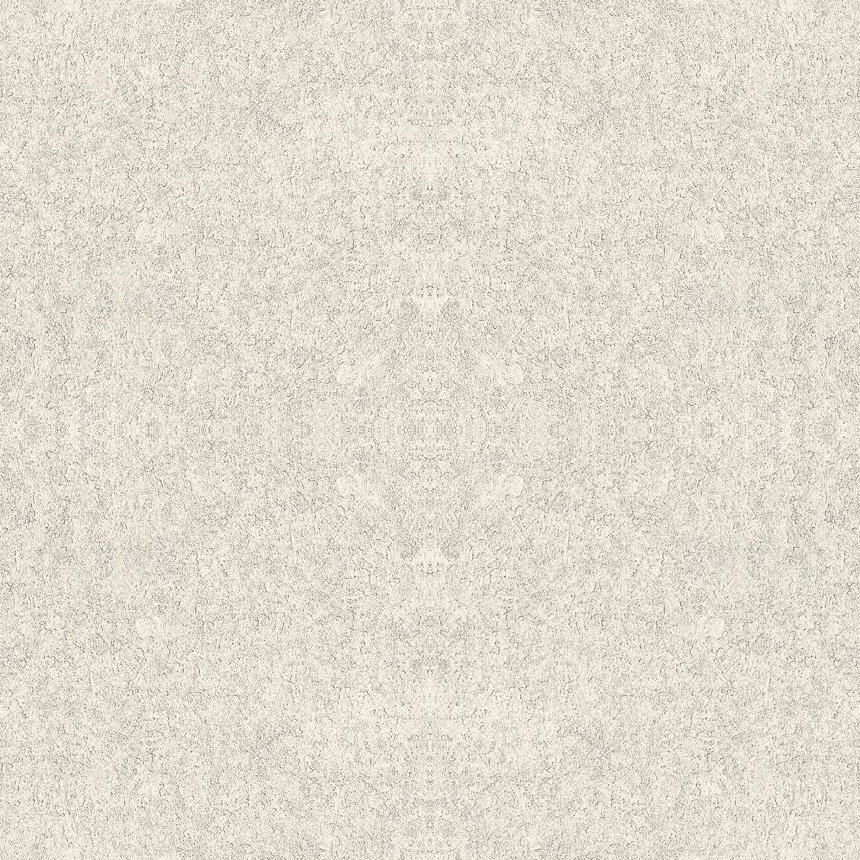
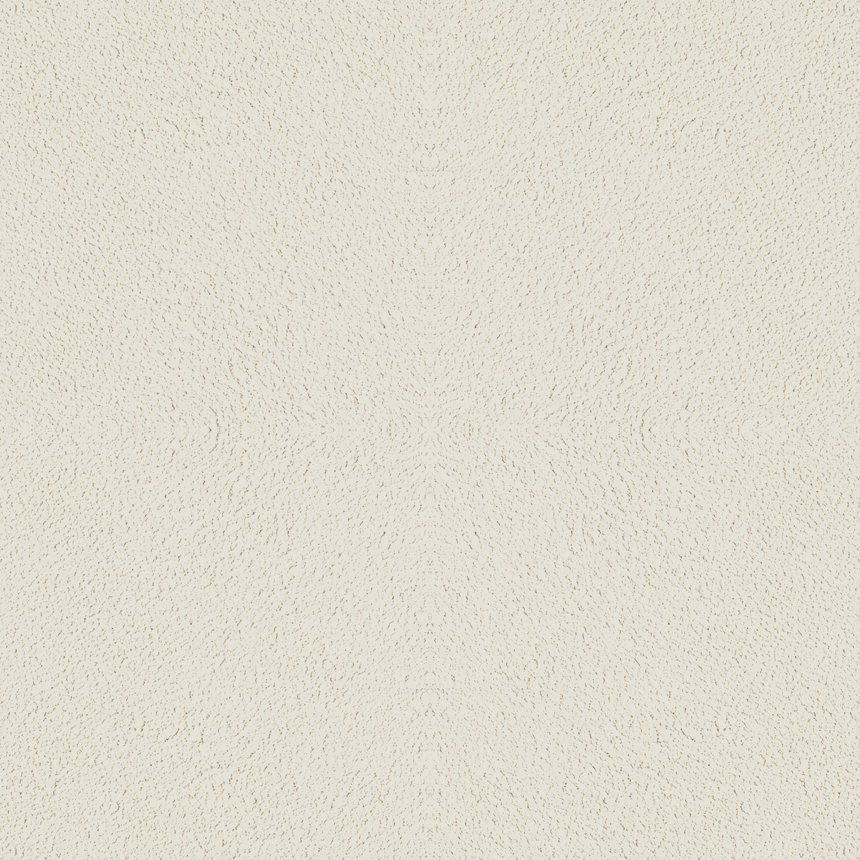
sync: 회벽 베이지 텍스처 크림화이트 입자로 재생성(베이지 톤, 170px) (theboda-platform d15e4ae)

Changed region(s): [[0.0, 0.0, 1.0, 1.0]]

diff --git a/js/views/room-visualizer.js b/js/views/room-visualizer.js
@@ -3,7 +3,7 @@
 import { el } from "../ui.js";
 import { buildCompositePlan, layerToStyle } from "../room-visualizer-helpers.js";
 
-const VISUAL_ASSET_VERSION = "0622-door-color-v2";
+const VISUAL_ASSET_VERSION = "0624-beige-recolor-v1";
 const visualAssetUrl = (url) => {
   if (!url?.startsWith("rooms/living/presets/")
     && !url?.startsWith("rooms/living/floor/")